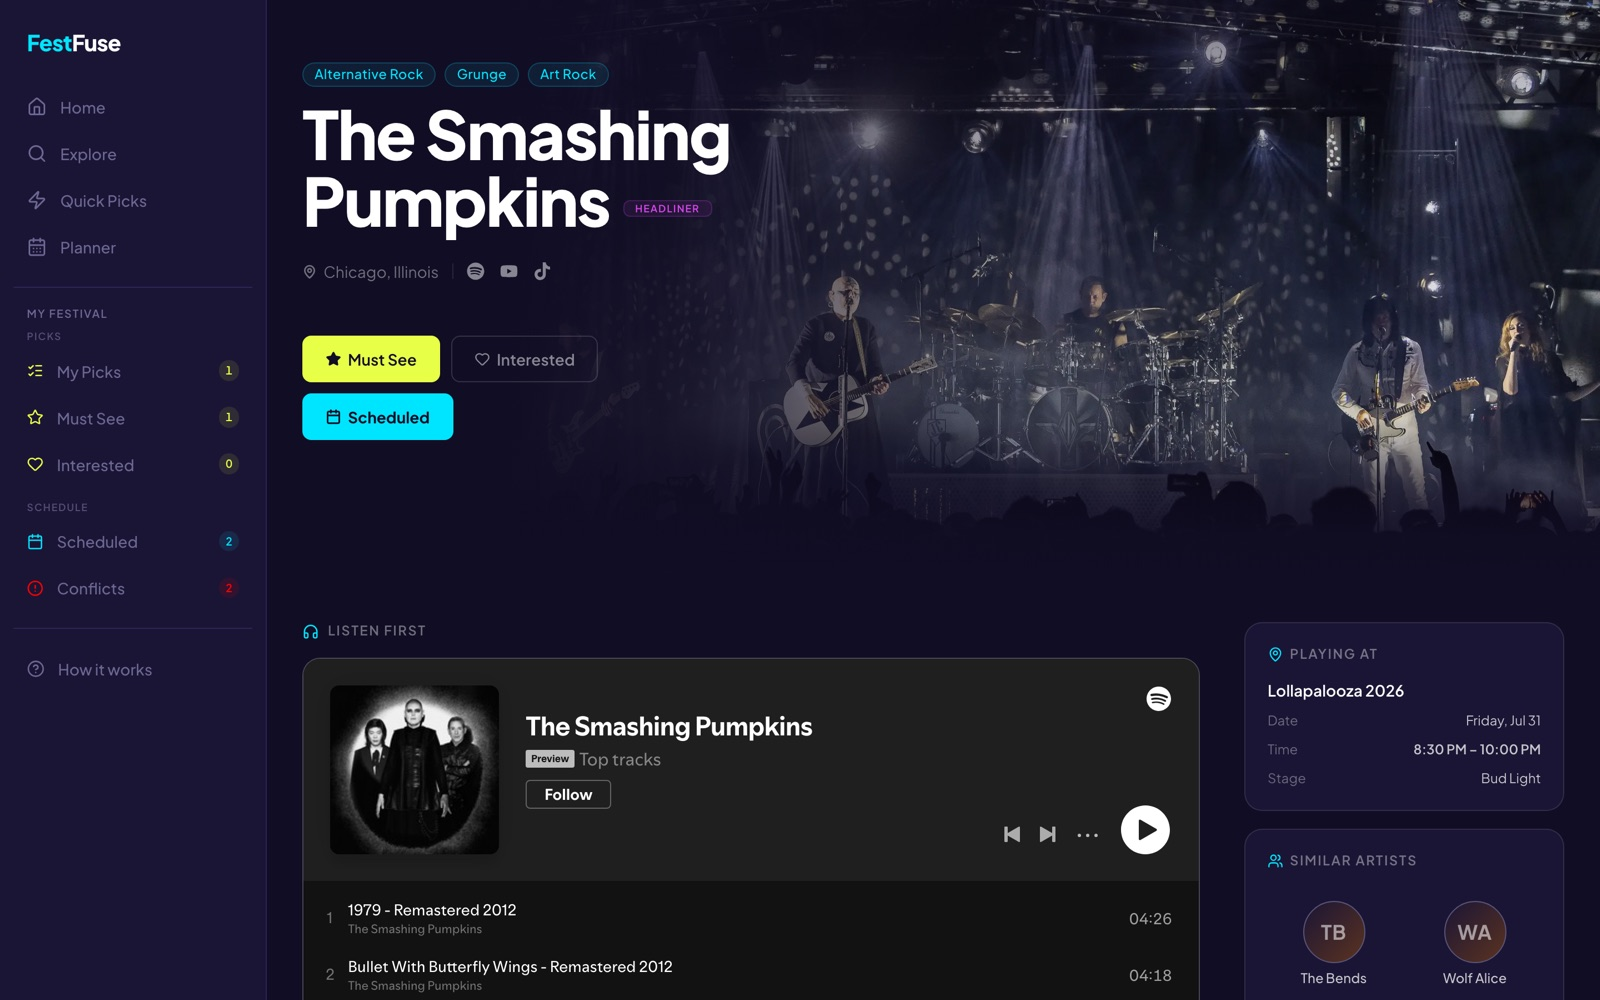
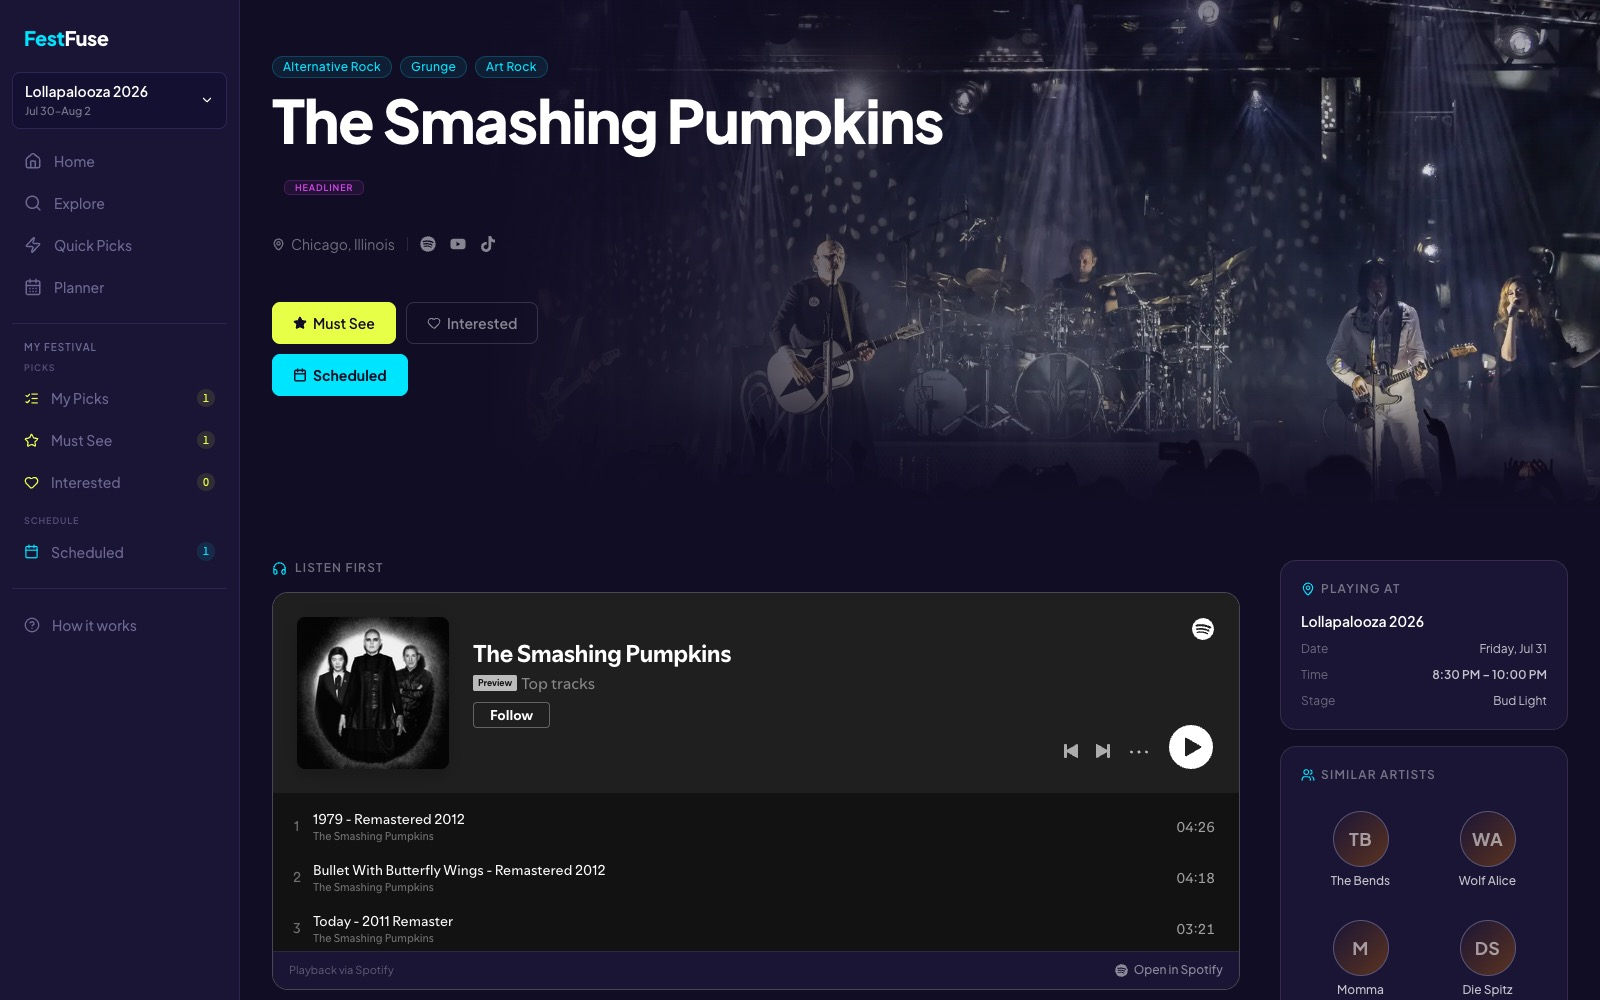
Reframe README as a full-stack, two-festival portfolio piece
The README was written when FestFuse was a single-festival, frontend-first
project. This brings it current: two live festivals, a real backend story,
and screenshots that match what's actually deployed.

- Blockquote and ownership line updated to name both festivals and use
  durable scope language instead of artist/day counts that go stale on
  every publish
- New "Architecture at a glance" section: a Mermaid diagram showing the
  frontend/backend/Postgres split plus the CLI authoring path that bypasses
  the API entirely, a publication-readiness gate described in plain
  language, and links out to the schema, roadmaps, ADRs, and editorial
  process docs
- Features gains a "Multiple festivals and runs" entry; Technical
  Highlights drops the now-duplicated Postgres bullet and adds one on
  derived schedule state
- "Current Scope and Roadmap" replaced with "Scope": what the product is
  and its boundaries, no forward roadmap or test-coverage promise to go
  stale
- Project Structure corrected to the current `app/festivals/[edition]/[run]/`
  routing
- Screenshots: added festival-picker.jpg (new, shows the multi-run
  chooser); reshot home, how-it-works, quick-picks-setup, explore,
  artist-detail, and artist-detail-about for the sidebar's festival
  context selector and other current-state UI; planner.jpg reshot from an
  ACL Saturday to also demonstrate the second festival. Mobile shots and
  the full-screen Quick Picks/Festival Story screens were left alone,
[…]

diff --git a/README.md b/README.md
@@ -4,9 +4,9 @@
 
 [Live Demo](https://festfuse.com/) · [Architecture](ARCHITECTURE.md)
 
-> FestFuse currently features the Lollapalooza 2026 lineup. Support for additional festivals is planned.
+> FestFuse currently covers two live festival lineups: Lollapalooza 2026 in Chicago, and Austin City Limits 2026 in Austin across two independent weekends.
 
-Designed and built solo: product design, full-stack development, and artist data curation across 171 artists and 4 festival days.
+Designed and built solo: product design, full-stack development, and artist-data curation across two festival editions and three festival runs.
 
 <p align="center">
   <img src="docs/screenshots/home.jpg" width="49%" alt="FestFuse home screen with Quick Picks, Explore, and Planner entry points" />
@@ -19,7 +19,33 @@ Festival lineups can turn music discovery into homework. FestFuse offers a few f
 
 The goal is not to catalog everything about every artist. It is to help festivalgoers feel confident and excited about who they choose to see.
 
+## Architecture at a glance
+
+```mermaid
+flowchart LR
+    FE["Next.js / React<br/>(Vercel)"] -->|reads| API["FastAPI<br/>(Railway)"]
+    API -->|reads| DB[(PostgreSQL)]
+    CLI["Editorial CLI workflows<br/>add_artist / edit_artist / publish_artists"] -->|writes| DB
+```
+
+- **Series → edition → run → appearance** models festivals with more than one weekend and artists that play more than one set, without duplicating an artist record per appearance.
+- **PostgreSQL is the sole artist-data source.** The API is read-only; artist records are created and edited only through the CLI workflows below, so there's no write endpoint to expose or secure.
+- **Schema changes ship through committed Alembic migrations**; artist records are authored through transactional CLI workflows backed by a documented editorial research-and-review process, not hand-edited in the database.
+- A publication-readiness gate, requiring things like location, verified genres, and a listening or video preview, keeps incomplete artist records out of the public API.
+- Editorial extras like bio copy and similar-artist picks are verified independently and never block publication.
+
+For deeper context:
+
+- [`docs/design/artist-data-model.md`](docs/design/artist-data-model.md): the full schema.
+- [`docs/roadmap/`](docs/roadmap): specs written before implementation for the project's more recent milestones, including this multi-festival build.
+- [`docs/decisions/`](docs/decisions/README.md): architecture decision records.
+- [`docs/process/artist-editorial-process.md`](docs/process/artist-editorial-process.md): the editorial research-and-review workflow.
+
 ## Features
+
+- **Multiple festivals and runs**
+
+  Switch between festival editions and individual weekends while keeping discovery, picks, and planning scoped to the selected run. Festivals without a published schedule remain usable for discovery and Quick Picks.
 
 - **Explore**
 
@@ -51,6 +77,12 @@ The goal is not to catalog everything about every artist. It is to help festival
 
 ## Screens
 
+**Choosing a festival**
+
+The entry screen for a new session, before Explore, Quick Picks, or Planner come into view.
+
+![Festival picker](docs/screenshots/festival-picker.jpg)
+
 **Explore**
 
 The Festival Favorites carousel, with picks and a schedule conflict visible on the cards.
@@ -65,7 +97,7 @@ Artist page for The Smashing Pumpkins, with Must See and Scheduled both marked a
 
 **Planner**
 
-A snapshot of Friday's schedule, with several picks (some also scheduled) and a real schedule conflict.
+A snapshot of Saturday's schedule, with several picks (some also scheduled) and a real schedule conflict.
 
 ![Planner showing a real schedule conflict](docs/screenshots/planner.jpg)
 
@@ -128,9 +160,9 @@ The onboarding modal.
 
 Built with the Next.js App Router, React, TypeScript, and Tailwind CSS, with a FastAPI/PostgreSQL backend deployed on Railway.
 
-- **PostgreSQL-backed artist data**: every artist-facing screen reads from a deployed FastAPI/PostgreSQL backend with a normalized artist schema and PostgreSQL integration tests. Artist records are authored directly in the database through small transactional CLI workflows, backed by an editorial research-and-review process.
 - **Festival Story's insight engine** computes a personalized recap from the user's actual attendance scope and picks each time, instead of displaying a fixed or randomly generated script.
 - **Multi-appearance modeling** lets a repeat festival performance exist as its own scoped appearance record instead of duplicating the artist, so the same artist can play multiple sets without the two copies drifting out of sync.
+- **Derived schedule state**: whether a run reads as scheduled, announced-only (roster known, no schedule yet), or not yet live is computed from whether appearances and published artists actually exist, never a separate status flag that could drift out of sync with the data.
 - **Rehydration resilience**: fixed three separate causes of a blank-screen bug on page load, each traced back to how a returning user's saved picks were being restored from the browser, not patched over ([details](ARCHITECTURE.md#hydrationgate-resilience-to-rehydration-errors)).
 
 A few more decisions worth knowing about:
@@ -139,7 +171,7 @@ A few more decisions worth knowing about:
 - Detects real schedule conflicts across a user's scheduled picks, scoped by festival and calendar date.
 - Uses deterministic carousel sampling to keep server and client rendering consistent while preserving variety between visits.
 - Persists decisions and schedule state in the browser with Zustand.
-- Gates AI-drafted artist bios and similar-artist picks behind a verified flag, so unverified content never renders. All 171 artists' similar-artist picks are verified; bio verification is ongoing.
+- Gates AI-drafted artist bios and similar-artist picks behind an editor-verified flag, so unverified content simply doesn't render. The page still works, just without that section.
 
 For deeper implementation notes and design decisions, see [ARCHITECTURE.md](ARCHITECTURE.md).
 
@@ -208,18 +240,11 @@ Backend test commands and the distinction between isolated API tests and real
 PostgreSQL integration tests are documented in the
 [backend testing guide](backend/tests/README.md).
 
-## Current Scope and Roadmap
+## Scope
 
-FestFuse covers the Lollapalooza 2026 lineup and reads all artist data from its
-FastAPI/PostgreSQL backend. The next iteration
-([`docs/roadmap/multi-festival.md`](docs/roadmap/multi-festival.md)) focuses on:
+FestFuse is intentionally focused on pre-festival discovery, individual artist decisions, and conflict-aware planning. Picks and schedules persist locally in the browser without requiring an account.
 
-- Multiple festivals, including editions that run more than one weekend
-  (Austin City Limits 2026 is the target)
-- Supporting an announced lineup before its schedule is published
-- Expanding frontend and backend automated test coverage
-
-User accounts and artist comparison are not planned for this iteration.
+Two festival editions are live today: Lollapalooza 2026, and Austin City Limits 2026 across two independent weekends. See [`docs/roadmap/multi-festival.md`](docs/roadmap/multi-festival.md) for how that was built.
 
 ## Project Structure
 
@@ -227,18 +252,20 @@ User accounts and artist comparison are not planned for this iteration.
 docs/                    # Decision records, roadmaps, design and process notes, screenshots
 backend/                 # FastAPI, SQLAlchemy models, Alembic migrations, and tests
 app/
-├── artist/[slug]/       # Artist detail routes
+├── festivals/[edition]/[run]/  # Workflow routes, scoped to a festival edition and run
+│   ├── artist/[slug]/          # Artist detail
+│   ├── explore/                # Lineup discovery
+│   ├── planner/                # Festival schedule builder
+│   ├── quick-picks/            # Guided artist decision flow
+│   └── credits/                # Photo/media attribution
 ├── components/          # Shared and feature-specific UI
 ├── data/                # Festival config, category vocabularies, and story data
-├── explore/             # Lineup discovery
-├── hooks/               # Shared React behavior and story signals
-├── lib/                 # Search, filtering, scheduling, and sampling logic
-├── planner/             # Festival schedule builder
-├── quick-picks/         # Guided artist decision flow
-├── store/               # Zustand client state
-└── types/               # Shared TypeScript models
+├── hooks/                # Shared React behavior and story signals
+├── lib/                  # Search, filtering, scheduling, and sampling logic
+├── store/                # Zustand client state
+└── types/                # Shared TypeScript models
 ```
 
 ## Data and Media Credits
 
-FestFuse is an independent portfolio project and is not affiliated with Lollapalooza, C3 Presents, Spotify, YouTube, or the artists represented. Artist imagery and embedded media remain the property of their respective owners. See the in-app Credits page for detailed attributions.
+FestFuse is an independent portfolio project and is not affiliated with Lollapalooza, Austin City Limits, C3 Presents, Spotify, YouTube, or the artists represented. Artist imagery and embedded media remain the property of their respective owners. See the in-app Credits page for detailed attributions.
